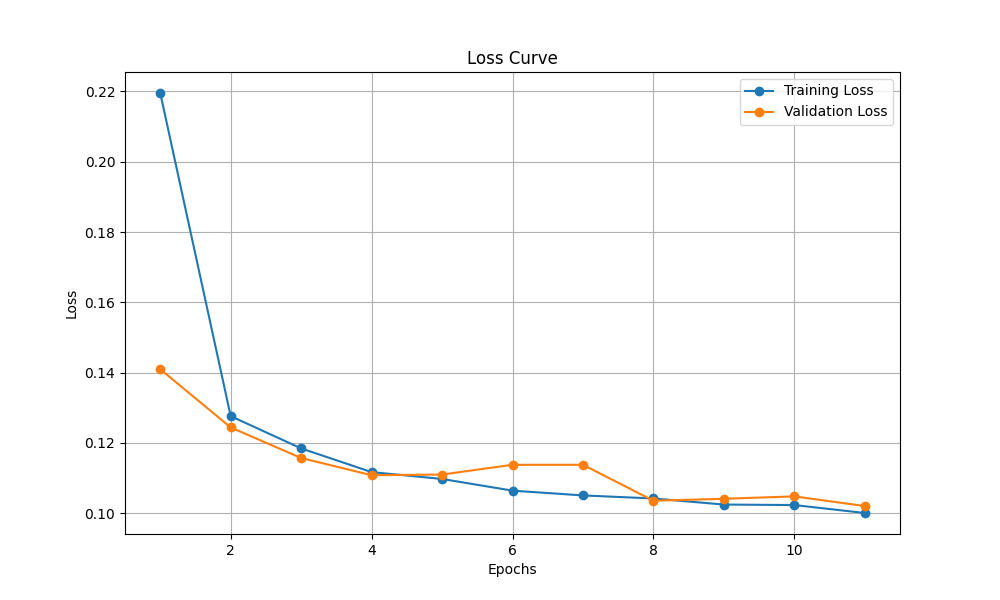
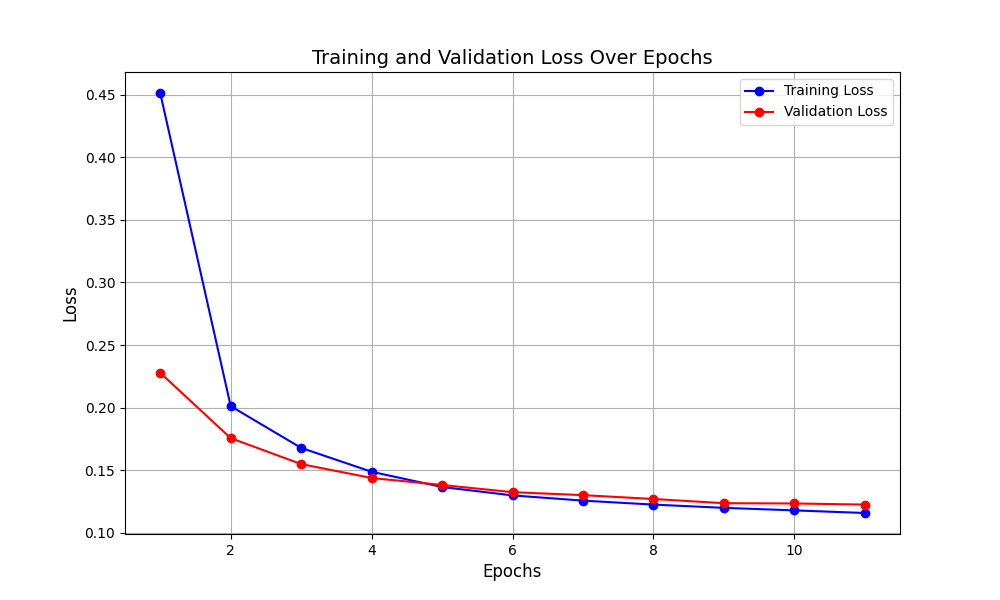
think im finished

diff --git a/train_model.py b/train_model.py
@@ -15,6 +15,8 @@ from sklearn.preprocessing import StandardScaler
 from sklearn.metrics import accuracy_score
 # calculate accuracy of a model
 import numpy as np
+# progress bar
+from tqdm import tqdm
 
 
 EPOCHS = 11
@@ -24,7 +26,7 @@ print(f"Using device: {device}")
 
 
 # load dataset
-data = pd.read_csv('star_classification_pruned.csv')
+data = pd.read_csv('star_classification.csv')
 
 # preprocess data in a hashmap  to convert classes to numerical
 class_map = {'GALAXY': 0, 'STAR': 1, 'QSO': 2}
@@ -72,12 +74,12 @@ class Net(nn.Module):
     def __init__(self):
         super(Net, self).__init__()
         # First fully connected layer
-        self.fc1 = nn.Linear(6, 128)
+        self.fc1 = nn.Linear(6, 12)
         # Second fully connected layer
         #self.fc2 = nn.Linear(128, 128)
-        self.fc2 = nn.Linear(128, 64)
+        self.fc2 = nn.Linear(12, 12)
         # Output layer, 3 classes
-        self.fc3 = nn.Linear(64, 3)
+        self.fc3 = nn.Linear(12, 3)
 
     def forward(self, x):
         # ReLU activation function after first layer
@@ -111,7 +113,7 @@ training_losses = []
 validation_losses = []
 
 # train the neural net
-for epoch in range(EPOCHS):
+for epoch in tqdm(range(EPOCHS), desc="Training Progress"):
     net.train()
     running_loss = 0.0
     for inputs, labels in train_loader:
@@ -141,7 +143,7 @@ for epoch in range(EPOCHS):
     avg_val_loss = val_loss / len(val_loader)
     validation_losses.append(avg_val_loss)
 
-    print(f'Epoch {epoch + 1}, Training Loss: {avg_train_loss}, Validation Loss: {avg_val_loss}')
+    print(f'Epoch {epoch + 1}/{EPOCHS}: Training Loss = {avg_train_loss:.4f}, Validation Loss = {avg_val_loss:.4f}')
 
 print('Finished Training')
 
@@ -173,16 +175,14 @@ import seaborn as sns
 # loss_curve
 epochs = range(1, EPOCHS + 1)
 plt.figure(figsize=(10, 6))
-plt.plot(epochs, training_losses, label='Training Loss', marker='o')
-plt.plot(epochs, validation_losses, label='Validation Loss', marker='o')
-plt.title('Loss Curve')
-plt.xlabel('Epochs')
-plt.ylabel('Loss')
+plt.plot(epochs, training_losses, label='Training Loss', marker='o', color='blue')
+plt.plot(epochs, validation_losses, label='Validation Loss', marker='o', color='red')
+plt.title('Training and Validation Loss Over Epochs', fontsize=14)
+plt.xlabel('Epochs', fontsize=12)
+plt.ylabel('Loss', fontsize=12)
 plt.legend()
 plt.grid(True)
 plt.savefig('plots/loss_curve.png')
-
-
 
 
 # confusion matrix
@@ -195,7 +195,7 @@ plt.ylabel('Actual Class')
 plt.xlabel('Predicted Class')
 plt.savefig('plots/confusion_matrix.png')
 
-
+'''
 # TSNE Plot
 tsne = TSNE(n_components=2, random_state=42)
 X_reduced = tsne.fit_transform(X_test)
@@ -206,3 +206,4 @@ plt.title("Pre-Classification T-Distributed Stochastic Neighbor Embedding")
 plt.savefig('plots/tsne.png')
 
 
+'''

diff --git a/README.md b/README.md
@@ -1,6 +1,6 @@
 # Star Classification Neural Network
 
-This project involves a neural network model designed to classify astronomical objects into three classes: GALAXY, STAR, and QSO (Quasi-Stellar Objects). The model is built and trained using PyTorch, a popular deep learning library.
+This project involves a neural network model designed to classify astronomical objects into three classes: GALAXY, STAR, and QSO (Quasi-Stellar Objects). The model is built and trained using PyTorch.
 
 ## Project Overview
 
@@ -10,8 +10,8 @@ The goal of this project is to accurately classify astronomical objects based on
 
 The model is a feedforward neural network with the following architecture:
 - Input Layer: 6 neurons (one for each feature)
-- First Hidden Layer: 128 neurons with ReLU activation
-- Second Hidden Layer: 64 neurons with ReLU activation
+- First Hidden Layer: 12 neurons with ReLU activation
+- Second Hidden Layer: 12 neurons with ReLU activation
 - Output Layer: 3 neurons (one for each class)
 
 ## Dependencies
@@ -25,7 +25,7 @@ The model is a feedforward neural network with the following architecture:
 
 ## Dataset
 
-The dataset `star_classification_pruned.csv` contains the following columns:
+The dataset `star_classification.csv` contains the following columns:
 - 'u', 'g', 'r', 'i', 'z': Photometric magnitudes in different bands
 - 'redshift': Redshift of the object
 - 'class': The class label (GALAXY, STAR, QSO)
@@ -46,10 +46,19 @@ To train the model, run the main script:
 python train_model.py
 ```
 
-This will train the model and save the trained model as `model.pth`. The script will also generate a plot of the loss curve during training and validation, saved as `loss_curve.png`.
+This will train the model and save the trained model as `model.pth`. The script will also generate a plot of the loss curve during training and validation, saved as `loss_curve.png` and a confusion matrix.
 
 ## Results
 
-The model achieved an high accuracy of 97.09% on the test set, with both training and validation losses showing a consistent decrease over the training epochs.
+The model achieves a high accuracy of 97.09% on the test set, with both training and validation losses showing a consistent decrease over the training epochs.
 
+
+## Credits
+
+Dataset from Sloan Digital Sky Survey
+https://www.sdss4.org/dr17/
+Pytorch nn documentation
+https://www.sdss4.org/dr17/
+Sentdex Youtube - Neural Networks from Scratch
+https://www.youtube.com/@sentdex
 ---
